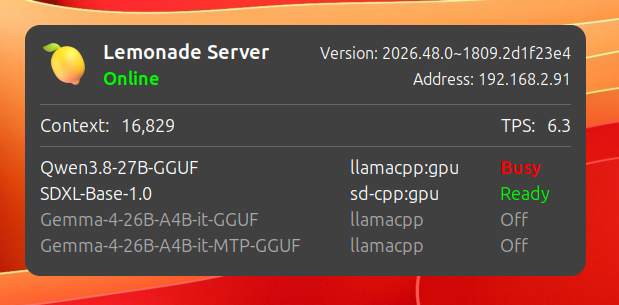
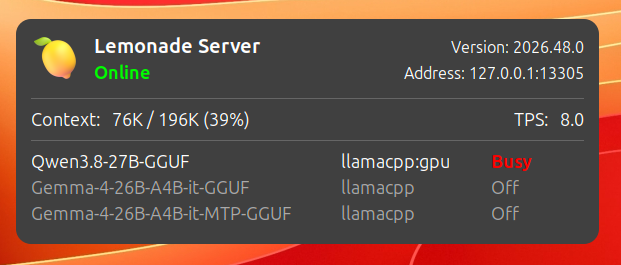
Removing Lang.bind, updated screenshot

Changed region(s): [[0.0, 0.0, 1.0, 1.0]]

diff --git a/lemonade@tidotua/files/lemonade@tidotua/desklet.js b/lemonade@tidotua/files/lemonade@tidotua/desklet.js
@@ -216,13 +216,13 @@ LemonadeDesklet.prototype = {
         this.serverIcon.set_child(image);
         this.serverIconTooltip = new Tooltips.Tooltip(this.serverIcon);
 
-        this.serverIconSig = this.serverIcon.connect('clicked', Lang.bind(this, function () {
+        this.serverIconSig = this.serverIcon.connect('clicked', () => {
             try {
                 Gio.AppInfo.launch_default_for_uri(this.server_url, null);
             } catch (e) {
                 global.logError("Could not open " + this.server_url + ": " + e.message);
             }
-        }));
+        });
 
         this.nameText = new St.Label({
             x_align: Clutter.ActorAlign.START,
@@ -402,11 +402,11 @@ LemonadeDesklet.prototype = {
 
         let modelTooltip = new Tooltips.Tooltip(modelButton);
 
-        let sig = modelButton.connect('clicked', Lang.bind(this, function () {
+        let sig = modelButton.connect('clicked', () => {
             if (modelButton.clickCallback) {
                 modelButton.clickCallback();
             }
-        }));
+        });
 
         let container = new St.BoxLayout({
             vertical: false,
